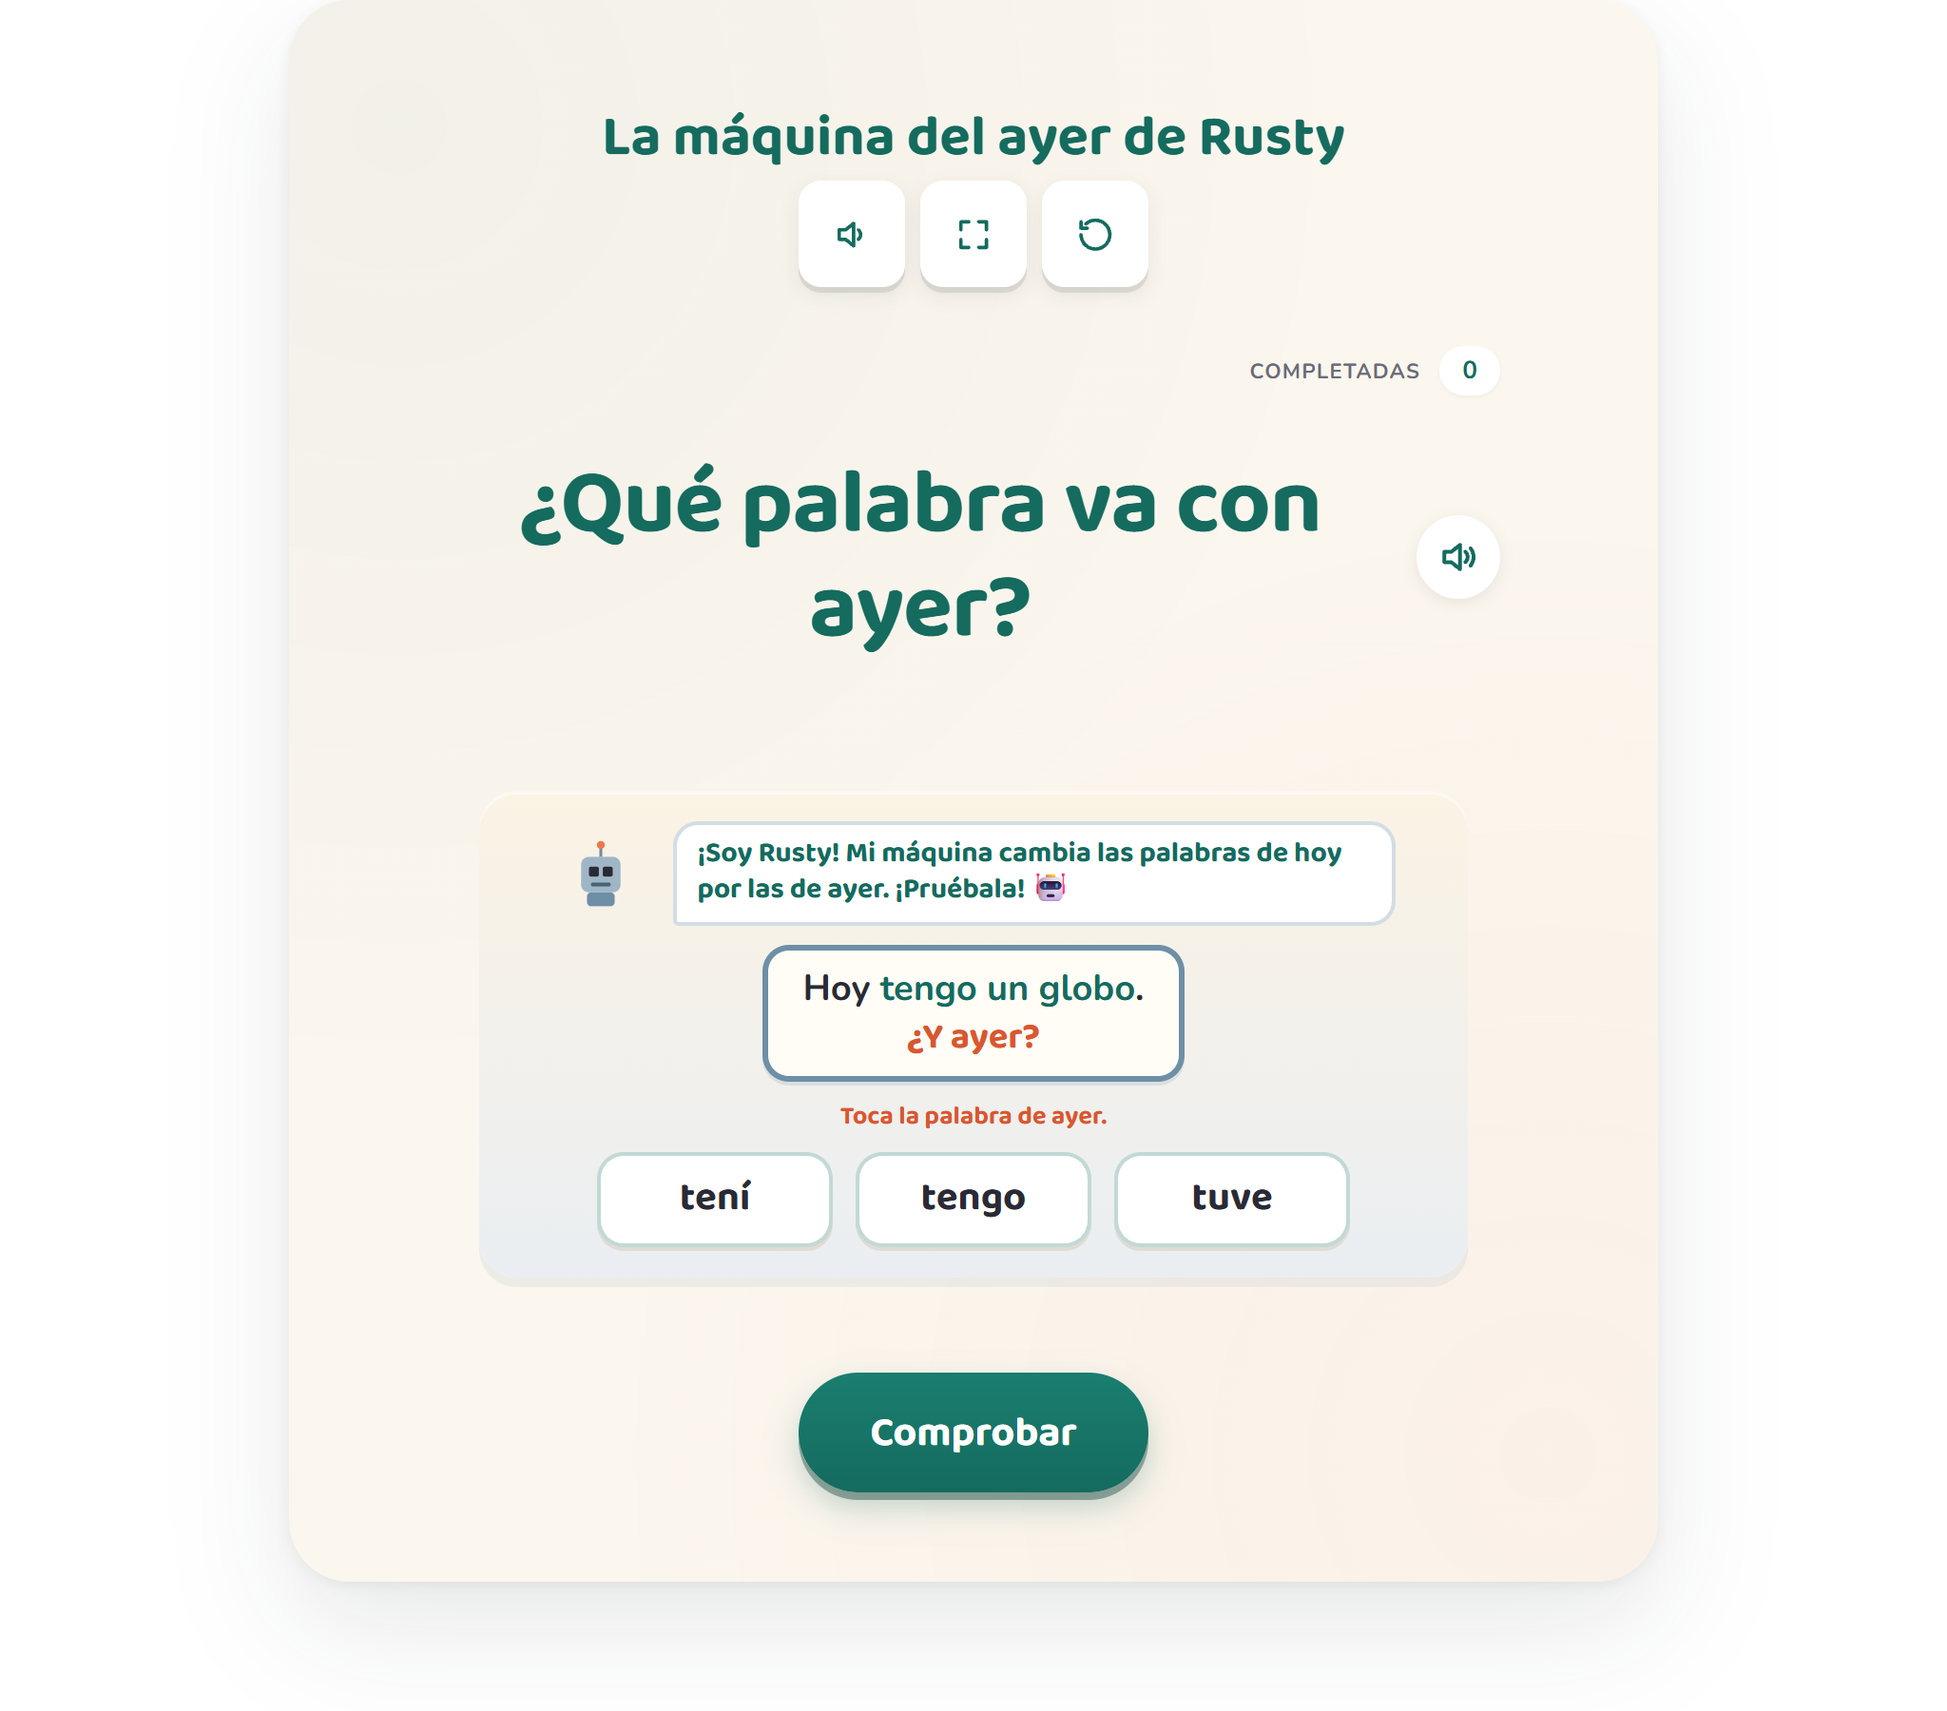
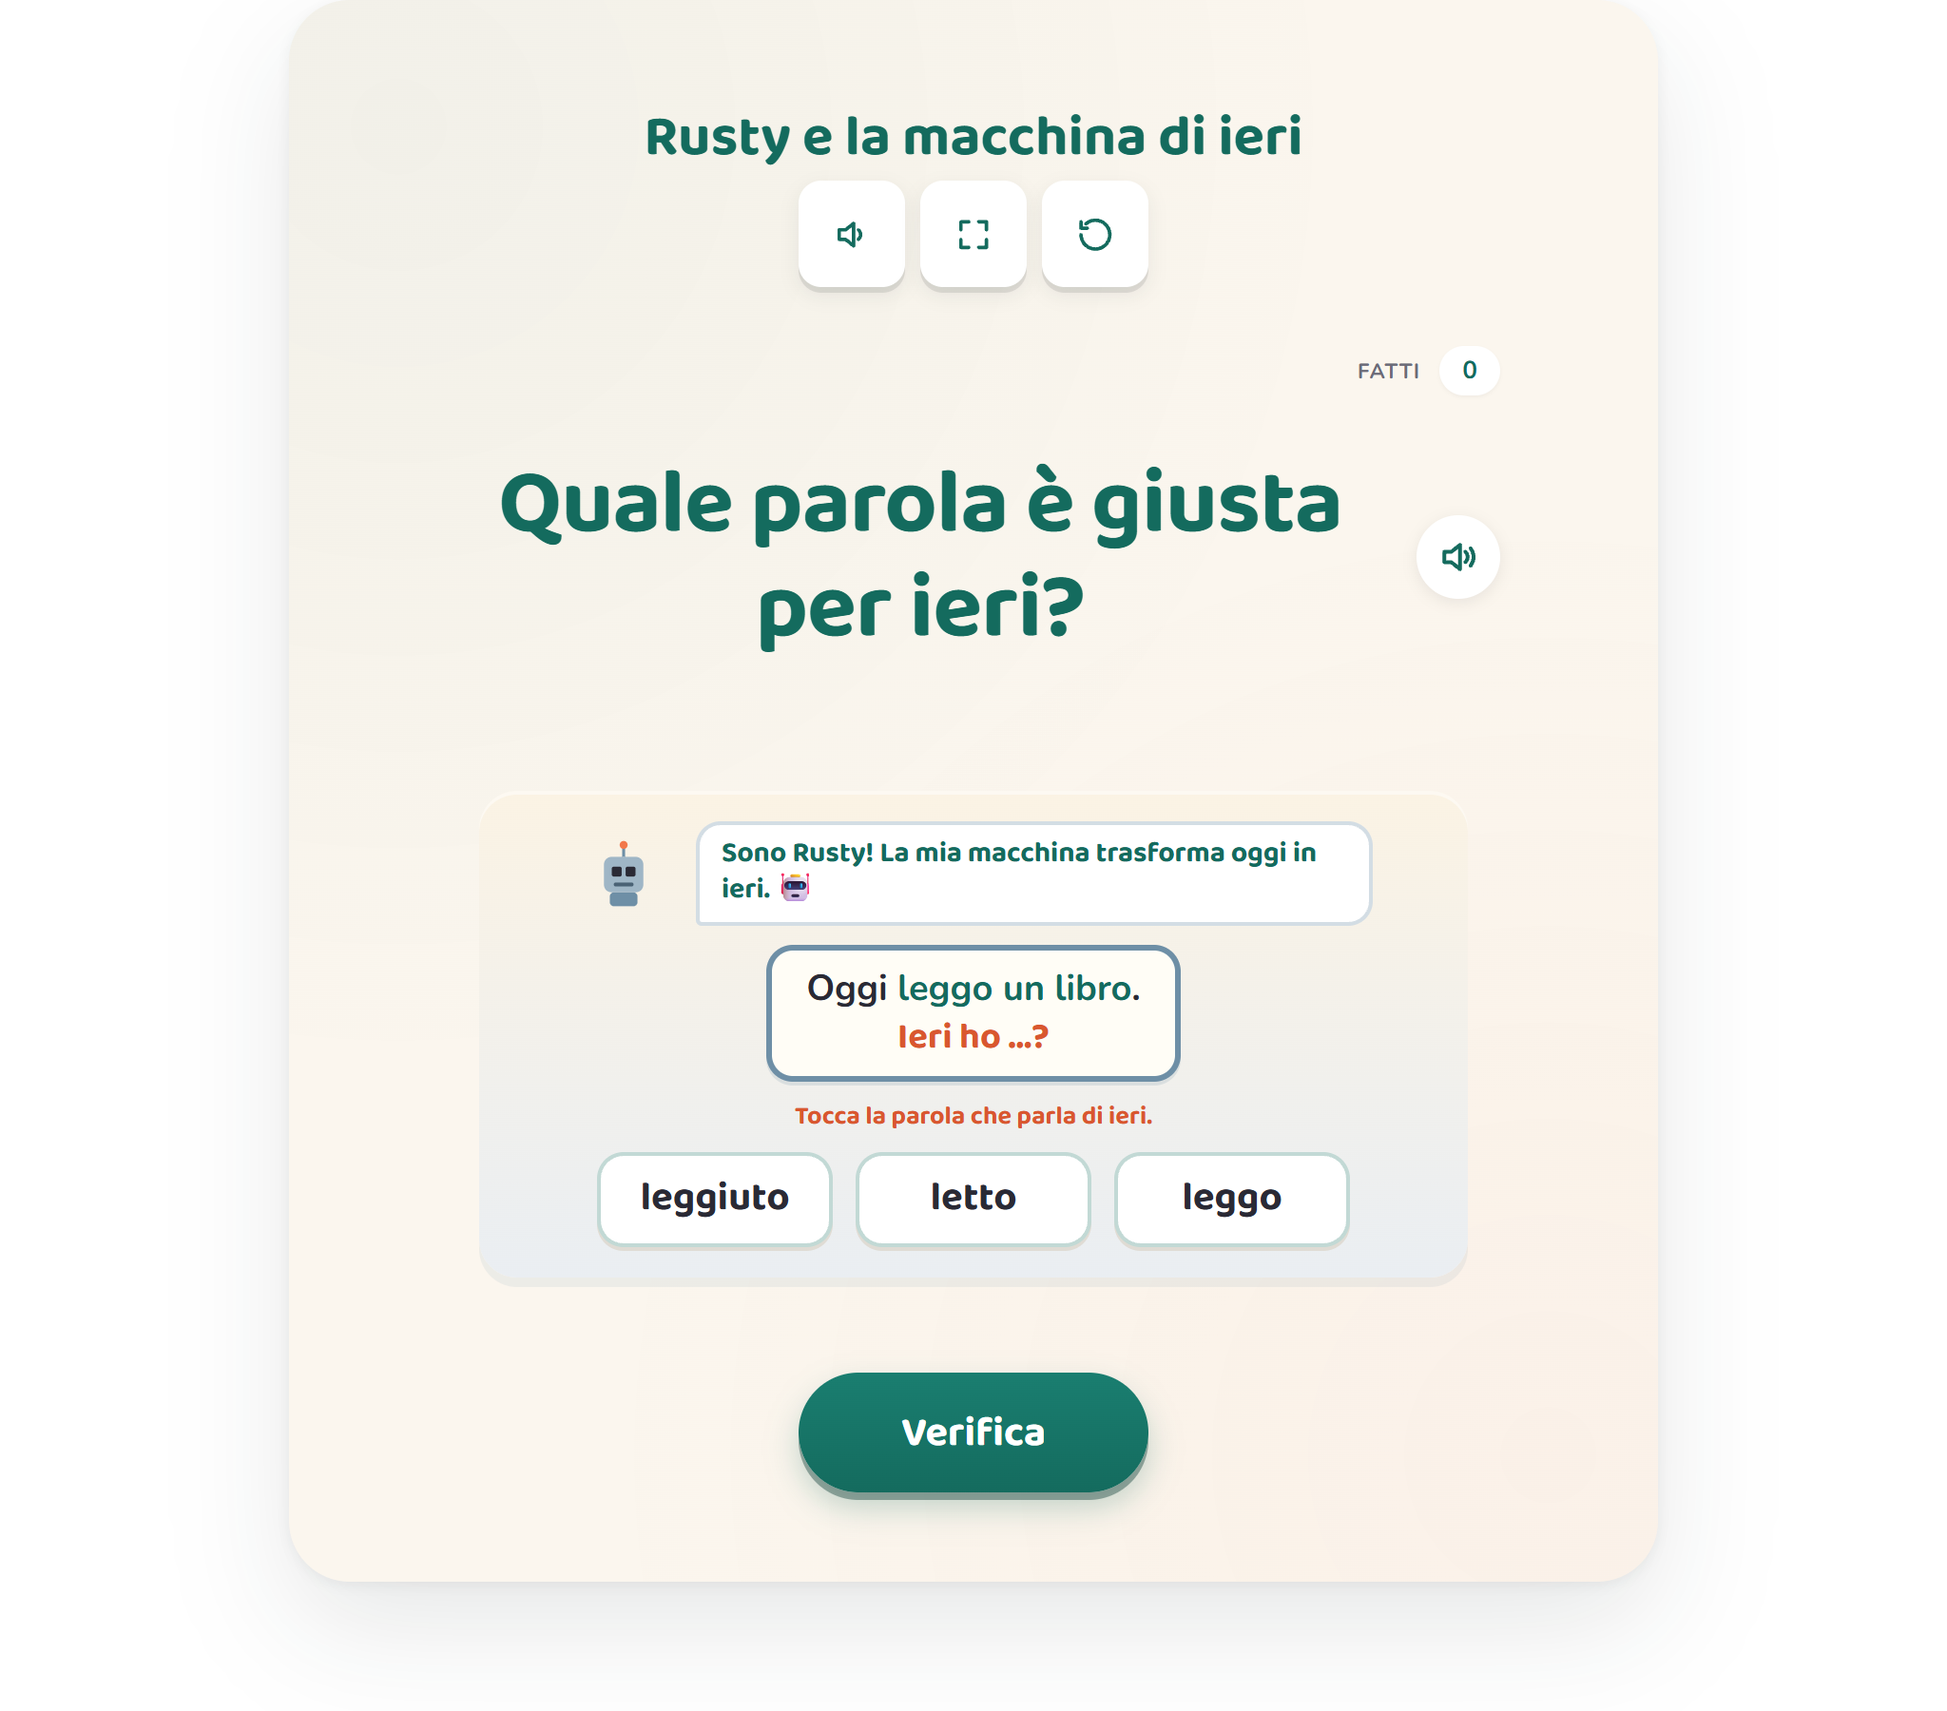
[FEATURE][I18N][IT] rusty-yesterday #33 — Rusty e la macchina di ieri (classe terza)
13th it LITERACY of the second-batch fan-out (pt sibling «Rusty e a Máquina de
Ontem», es «La máquina del ayer de Rusty»). Rebuild not translate for the
Indicazioni nazionali — i verbi irregolari al passato prossimo, classe terza.
3-agent native ensemble.

Ensemble rulings:
- ⚠ Italian design (mirrors fr): the everyday "yesterday" past is the passato
  prossimo (NOT the literary passato remoto), so avere-verbs ONLY with «ho»
  baked into the template («Oggi {present}. / Ieri ho …?»); the choice is the
  participle. Foils = bare present + over-regularized participle (the real
  child error). No agreement trap (ho + participle stays -o, object after).
- ⚠ Round-8 fare→chiedere SWAP (linguist-decisive over the pedagogue): fare's
  «*fato» is a real word (fate) and «*facuto» needs the buried fac- stem =
  contrived; chiedere→chiesto gives a clean rule-consistent -ere→-uto foil
  «chieduto». Avoided the vedere→veduto / perdere→perduto archaic-doublet traps.
- GRADE classe terza (bump it:'3'); STRAND stays «Riflessione linguistica»
  (no override — Italian has no separate conjugation nucleus, unlike fr's
  «La conjugaison»).
- Character «Rusty, un robot»; deck bot-guards pass (position 0.375, longest 0,
  shortest 0.125, distinct).

Activity-layer only: 7 it: strings + 2 templates + speak()/panel-aria it-IT.
0 lines to irregular-past-core.js / lcs-shell.* / Direction-A CSS. GRADE_OVERRIDE
it:'3', wrapper 9.485→9.486, html ?v=6. LOCAL only — NO deploy.

diff --git a/mini tools/rusty-yesterday-activity.js b/mini tools/rusty-yesterday-activity.js
@@ -17,8 +17,8 @@
 
   function esc(s) { return String(s == null ? '' : s).replace(/[&<>"]/g, function (c) { return { '&': '&amp;', '<': '&lt;', '>': '&gt;', '"': '&quot;' }[c]; }); }
   function speak(text) {
-    try { if (global.LCSAudio && global.LCSAudio.speak) { global.LCSAudio.speak({ type: 'word', text: text, lang: (LANG === 'es' ? 'es-MX' : LANG === 'pt' ? 'pt-BR' : LANG), rate: 0.95 }); return; }
-      if (global.speechSynthesis && global.SpeechSynthesisUtterance) { var u = new global.SpeechSynthesisUtterance(text); u.rate = 0.95; u.lang = LANG === 'de' ? 'de-DE' : LANG === 'fr' ? 'fr-FR' : LANG === 'es' ? 'es-MX' : LANG === 'pt' ? 'pt-BR' : 'en-US'; global.speechSynthesis.cancel(); global.speechSynthesis.speak(u); } } catch (e) {}
+    try { if (global.LCSAudio && global.LCSAudio.speak) { global.LCSAudio.speak({ type: 'word', text: text, lang: (LANG === 'es' ? 'es-MX' : LANG === 'pt' ? 'pt-BR' : LANG === 'it' ? 'it-IT' : LANG), rate: 0.95 }); return; }
+      if (global.speechSynthesis && global.SpeechSynthesisUtterance) { var u = new global.SpeechSynthesisUtterance(text); u.rate = 0.95; u.lang = LANG === 'de' ? 'de-DE' : LANG === 'fr' ? 'fr-FR' : LANG === 'es' ? 'es-MX' : LANG === 'pt' ? 'pt-BR' : LANG === 'it' ? 'it-IT' : 'en-US'; global.speechSynthesis.cancel(); global.speechSynthesis.speak(u); } } catch (e) {}
   }
   function shuffle(arr) { var a = arr.slice(), i, j, t; for (i = a.length - 1; i > 0; i--) { j = Math.floor(Math.random() * (i + 1)); t = a[i]; a[i] = a[j]; a[j] = t; } return a; }
 
@@ -36,15 +36,15 @@
     id: 'rusty-yesterday-activity',
 
     strings: {
-      title: { en: "Rusty's Yesterday Machine", de: 'Rustys Gestern-Maschine', fr: 'La machine à hier de Rusty', es: 'La máquina del ayer de Rusty', pt: 'Rusty e a Máquina de Ontem' },
-      prompt: { en: 'Which word is right for yesterday?', de: 'Welches Wort passt zu gestern?', fr: 'Quel mot va avec hier ?', es: '¿Qué palabra va con ayer?', pt: 'Qual palavra é a certa para ontem?' },
-      rustyIntro: { en: 'My machine turns today-verbs into yesterday-verbs!', de: 'Ich bin Rusty! Meine Maschine macht aus Heute-Wörtern Gestern-Wörter. Probier es aus! 🤖', fr: '🤖 Ma machine change les mots d’aujourd’hui en mots d’hier !', es: '¡Soy Rusty! Mi máquina cambia las palabras de hoy por las de ayer. ¡Pruébala! 🤖', pt: 'Sou o Rusty! Minha máquina vira hoje em ontem. 🤖' },
-      todayTpl: { en: 'Today I {present}.', de: 'Heute {present} ich.', fr: 'Aujourd’hui, je {present}.', es: 'Hoy {present}.', pt: 'Hoje eu {present}.' },
-      yTpl: { en: 'Yesterday I …', de: 'Gestern … ich?', fr: 'Hier, j’ai …?', es: '¿Y ayer?', pt: 'E ontem?' },
-      theAsk: { en: 'Tap the word that tells about yesterday.', de: 'Tippe das Wort für gestern an.', fr: 'Touche le mot d’hier.', es: 'Toca la palabra de ayer.', pt: 'Toque na palavra que fala de ontem.' },
-      hintPick: { en: 'Some verbs change in a tricky way — tap your pick!', de: 'Tippe ein Wort an, das zu gestern passt.', fr: 'Cherche le mot qui va avec hier.', es: 'Toca la palabra que va con ayer.', pt: 'Alguns verbos mudam de um jeito diferente — toque na sua escolha!' },
-      hintWrong: { en: "Not quite — yesterday's word doesn't just add -ed.", de: 'Fast! Starke Verben hängen kein „-te" an – sie ändern ihren Selbstlaut: gehe → ging.', fr: 'Oups ! Ces mots changent : « faire » devient « fait », pas « faisé ».', es: '¡Casi! Estos verbos cambian: «hago» se vuelve «hice», no «hací».', pt: 'Quase! Alguns verbos mudam bem diferente no passado — não é só juntar um final.' },
-      win: { en: 'Beep boop — that is yesterday’s word! 🤖', de: 'Stark gemacht! Die Maschine hat es geschafft. 🤖', fr: '🤖 Bravo ! Ta machine à voyager dans le temps marche super bien !', es: '¡Muy bien! La máquina lo logró. 🤖', pt: 'Bip bop — essa é a palavra de ontem! 🤖' }
+      title: { en: "Rusty's Yesterday Machine", de: 'Rustys Gestern-Maschine', fr: 'La machine à hier de Rusty', es: 'La máquina del ayer de Rusty', pt: 'Rusty e a Máquina de Ontem', it: 'Rusty e la macchina di ieri' },
+      prompt: { en: 'Which word is right for yesterday?', de: 'Welches Wort passt zu gestern?', fr: 'Quel mot va avec hier ?', es: '¿Qué palabra va con ayer?', pt: 'Qual palavra é a certa para ontem?', it: 'Quale parola è giusta per ieri?' },
+      rustyIntro: { en: 'My machine turns today-verbs into yesterday-verbs!', de: 'Ich bin Rusty! Meine Maschine macht aus Heute-Wörtern Gestern-Wörter. Probier es aus! 🤖', fr: '🤖 Ma machine change les mots d’aujourd’hui en mots d’hier !', es: '¡Soy Rusty! Mi máquina cambia las palabras de hoy por las de ayer. ¡Pruébala! 🤖', pt: 'Sou o Rusty! Minha máquina vira hoje em ontem. 🤖', it: 'Sono Rusty! La mia macchina trasforma oggi in ieri. 🤖' },
+      todayTpl: { en: 'Today I {present}.', de: 'Heute {present} ich.', fr: 'Aujourd’hui, je {present}.', es: 'Hoy {present}.', pt: 'Hoje eu {present}.', it: 'Oggi {present}.' },
+      yTpl: { en: 'Yesterday I …', de: 'Gestern … ich?', fr: 'Hier, j’ai …?', es: '¿Y ayer?', pt: 'E ontem?', it: 'Ieri ho …?' },
+      theAsk: { en: 'Tap the word that tells about yesterday.', de: 'Tippe das Wort für gestern an.', fr: 'Touche le mot d’hier.', es: 'Toca la palabra de ayer.', pt: 'Toque na palavra que fala de ontem.', it: 'Tocca la parola che parla di ieri.' },
+      hintPick: { en: 'Some verbs change in a tricky way — tap your pick!', de: 'Tippe ein Wort an, das zu gestern passt.', fr: 'Cherche le mot qui va avec hier.', es: 'Toca la palabra que va con ayer.', pt: 'Alguns verbos mudam de um jeito diferente — toque na sua escolha!', it: 'Alcuni verbi cambiano in modo speciale — tocca la tua scelta!' },
+      hintWrong: { en: "Not quite — yesterday's word doesn't just add -ed.", de: 'Fast! Starke Verben hängen kein „-te" an – sie ändern ihren Selbstlaut: gehe → ging.', fr: 'Oups ! Ces mots changent : « faire » devient « fait », pas « faisé ».', es: '¡Casi! Estos verbos cambian: «hago» se vuelve «hice», no «hací».', pt: 'Quase! Alguns verbos mudam bem diferente no passado — não é só juntar um final.', it: 'Quasi! Alcuni verbi cambiano nel passato: «prendere» diventa «preso», non «prenduto».' },
+      win: { en: 'Beep boop — that is yesterday’s word! 🤖', de: 'Stark gemacht! Die Maschine hat es geschafft. 🤖', fr: '🤖 Bravo ! Ta machine à voyager dans le temps marche super bien !', es: '¡Muy bien! La máquina lo logró. 🤖', pt: 'Bip bop — essa é a palavra de ontem! 🤖', it: 'Bip bop — questa è la parola di ieri! 🤖' }
     },
     defaults: {},
 
@@ -74,7 +74,7 @@
       var say = api.el('div', 'ryd-say'); say.textContent = api.t('rustyIntro'); row.appendChild(say);
       root.appendChild(row);
 
-      var panel = api.el('button', 'ryd-panel'); panel.type = 'button'; panel.setAttribute('aria-label', LANG === 'de' ? 'Satz anhören' : LANG === 'fr' ? 'écouter la phrase' : LANG === 'es' ? 'escuchar la oración' : LANG === 'pt' ? 'ouvir a frase' : 'hear the sentence');
+      var panel = api.el('button', 'ryd-panel'); panel.type = 'button'; panel.setAttribute('aria-label', LANG === 'de' ? 'Satz anhören' : LANG === 'fr' ? 'écouter la phrase' : LANG === 'es' ? 'escuchar la oración' : LANG === 'pt' ? 'ouvir a frase' : LANG === 'it' ? 'ascolta la frase' : 'hear the sentence');
       var today = api.el('div', 'ryd-today'); today.innerHTML = api.t('todayTpl').replace('{present}', '<b>' + esc(v.present) + '</b>'); panel.appendChild(today);
       var yest = api.el('div', 'ryd-yest'); yest.textContent = api.t('yTpl'); panel.appendChild(yest);
       panel.addEventListener('click', function () { speak(api.t('todayTpl').replace('{present}', v.present) + ' ' + api.t('yTpl')); });

diff --git a/frontend/app/[locale]/activities/[slug]/page.tsx b/frontend/app/[locale]/activities/[slug]/page.tsx
@@ -84,7 +84,7 @@ const GRADE_OVERRIDE: Record<string, Record<string, string>> = {
   'hazel-word-bridge.joining-words.l-1-1-g': { de: '3', fr: '3', es: '3', pt: '3', it: '3' },  // selection-by-meaning across 4 Bindewörter incl. causal „denn" + Pflichtkomma → DE Klasse 3; FR: coordination + car + comma-before-mais/car → CE2; ES 3.º (selección por sentido de 4 nexos incl. causal porque + coma-ante-pero = 3.º NEM Lenguajes); IT classe terza (scelta per senso di 4 congiunzioni incl. causale «perché» + virgola-prima-di-«ma»)
   'cleo-packing-list.series-commas.l-1-2-b': { de: '3', fr: '3', es: '3', pt: '3', it: '3' },  // Komma bei Aufzählung = first comma rule, DE Klasse 3; FR: la virgule d'énumération = premier attendu interne → CE2; ES 3.º (la coma en enumeraciones = primera regla de coma; 1.º-2.º solo punto/mayúscula); IT classe terza (la virgola negli elenchi; classe 1-2 = solo il punto e la maiuscola)
   'robin-mirror.reflexive.l-2-1-c': { de: '3', fr: '3', es: '3', pt: '3', it: '3' },        // Reflexivpronomen → DE Klasse 3; FR: le pronom réfléchi qui varie avec le sujet = consolidation CE2; ES 3.º (pronombres reflexivos como categoría metalingüística = 3.º NEM; uso oral desde preescolar); IT classe terza (il pronome riflessivo come categoria metalinguistica; uso orale dalla scuola dell'infanzia)
-  'rusty-yesterday.irregular-past.l-2-1-d': { de: '3', fr: '3', es: '3', pt: '3' }, // starke Verben Präteritum → DE Klasse 3; FR: passé composé irrégulier (résister à « faisé ») = consolidation CE2; ES 3.º (estudio consciente del pretérito de verbos irregulares + rechazar la sobrerregularización = 3.º NEM; uso oral desde preescolar)
+  'rusty-yesterday.irregular-past.l-2-1-d': { de: '3', fr: '3', es: '3', pt: '3', it: '3' }, // starke Verben Präteritum → DE Klasse 3; FR: passé composé irrégulier (résister à « faisé ») = consolidation CE2; ES 3.º (estudio consciente del pretérito de verbos irregulares + rechazar la sobrerregularización = 3.º NEM; uso oral desde preescolar); IT classe terza (studio consapevole dei participi irregolari del passato prossimo — «perché non si dice prenduto?»)
   'roary-roar-meter.shades.l-2-5-b': { de: '3', fr: '3', es: '3', pt: '3' },        // Bedeutungsnuancen → DE Klasse 3; FR: classer des synonymes par intensité = CE2; ES 3.º (graduar matices de significado dentro de un mismo sentido = tarea léxica fina de 3.º NEM; los opuestos claros son 1.º-2.º)
   'wren-question-window.question-words.l-k-1-d': { de: '1', fr: '2', es: '1', pt: '1' },    // Fragewörter = DE Klasse 1 (mechanical K→1); FR: emploi écrit des 6 mots interrogatifs = CE1 attendu (maternelle=oral, CP=déchiffrage) — deliberately one notch above the DE bump; ES: palabras interrogativas = tarea de lengua escrita → 1.º primaria (frontera preescolar→primaria; el niño RECONOCE la tilde, no la produce → no 2.º); PT: 1º ano — reconhecimento de palavras interrogativas na fronteira educação infantil→EF, tarefa de reconhecimento (não produção/ortografia) → espelha es, NÃO o bump fr
   'wordclass.adjective-adverb.l-2-1-e': { fr: '3' },                     // FR CE2: l'adverbe comme classe nommée + le CHOIX fonctionnel adjectif/adverbe = attendu de fin de cycle 2 (l'adjectif seul = CE1); the CCSS-Grade-2→CE1 auto-map under-levels it. en Grade 2 unchanged
@@ -547,7 +547,7 @@ export default async function ActivityPage({ params }: { params: PageParams }) {
   // applied here to the iframe-loaded wrapper URL (the only un-busted
   // link in the activity-page → mini-tool chain). The wrapper reads
   // only `activity` / `lang` / `embed` params; `v` is harmless to it.
-  const ACTIVITY_WRAPPER_VERSION = '9.485';
+  const ACTIVITY_WRAPPER_VERSION = '9.486';
 
   const iframeSrc =
     `/mini-tools/${row.tool}.html?v=${ACTIVITY_WRAPPER_VERSION}` +

diff --git a/mini tools/rusty-yesterday-activity.html b/mini tools/rusty-yesterday-activity.html
@@ -17,7 +17,7 @@
        NOTE: bump ?v=N on EVERY change to rusty-yesterday-activity.js / irregular-past-core.js (§A.13.42). -->
   <script src="/mini-tools/lcs-shell.js?v=5"></script>
   <script src="/mini-tools/irregular-past-core.js?v=1"></script>
-  <script src="/mini-tools/rusty-yesterday-activity.js?v=5"></script>
+  <script src="/mini-tools/rusty-yesterday-activity.js?v=6"></script>
   <script>
     LCS.mount(RustyYesterdayActivity, { mount: '#lcs-root' });
   </script>
